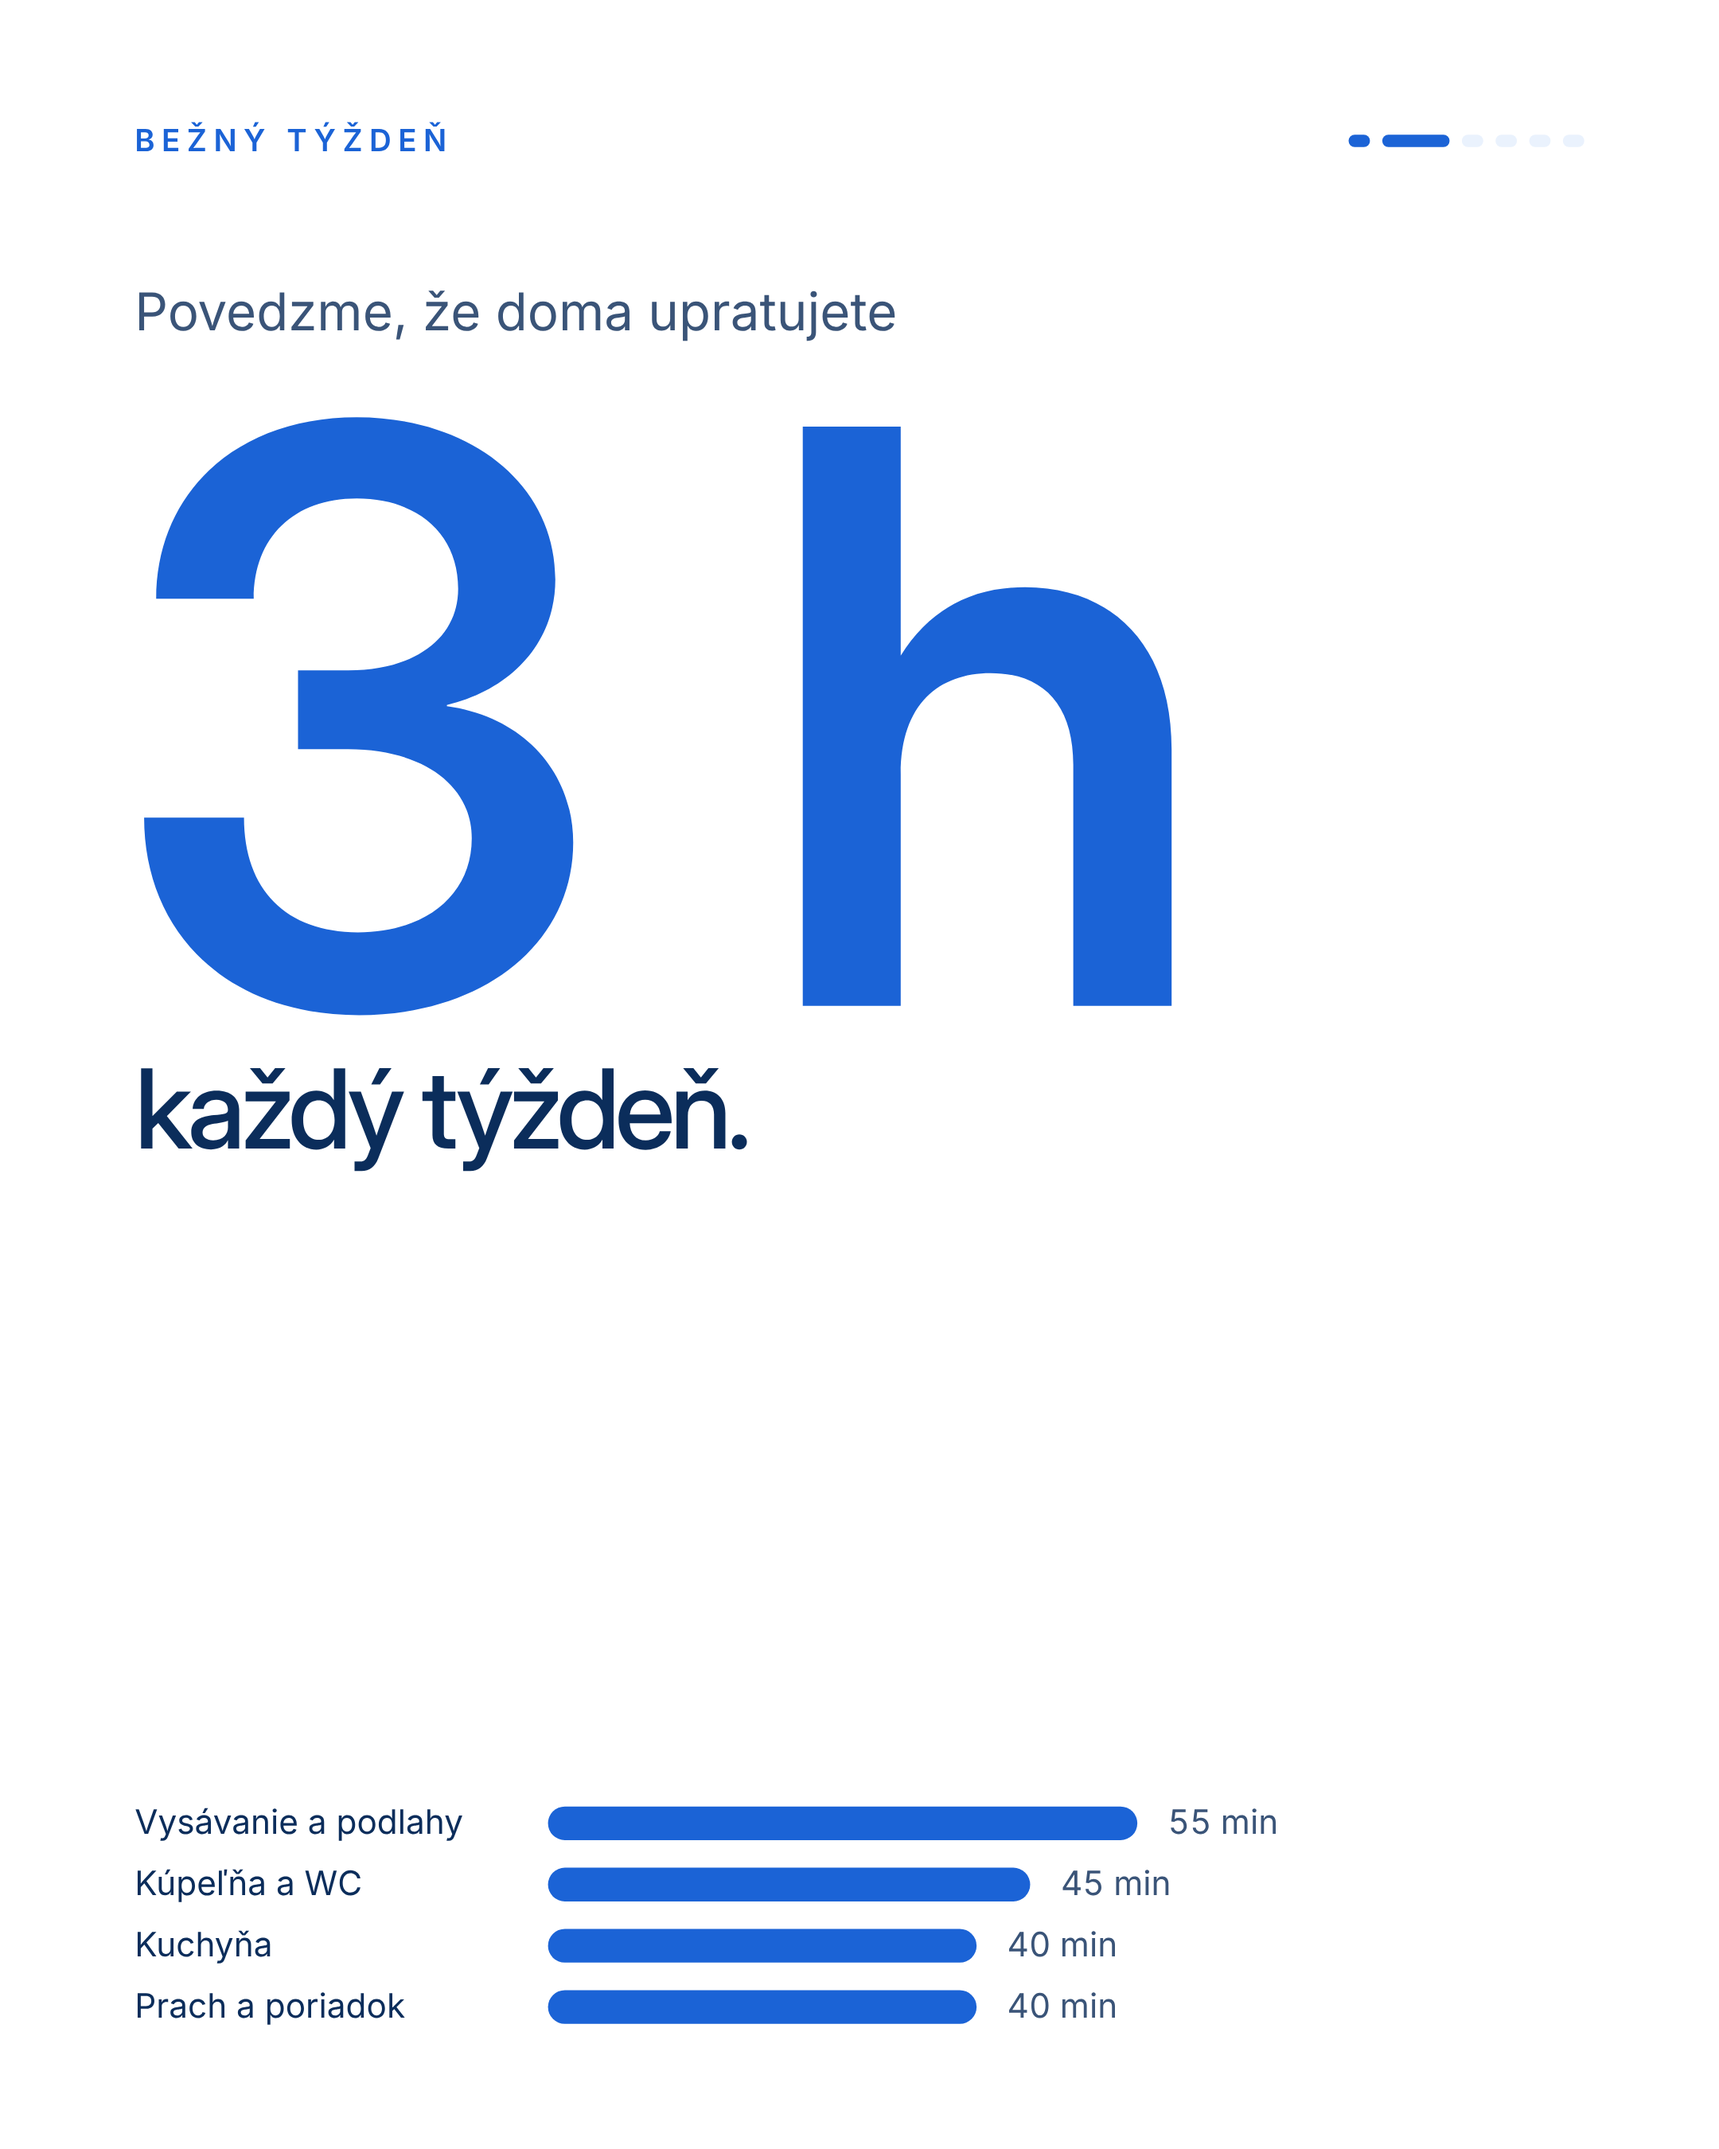
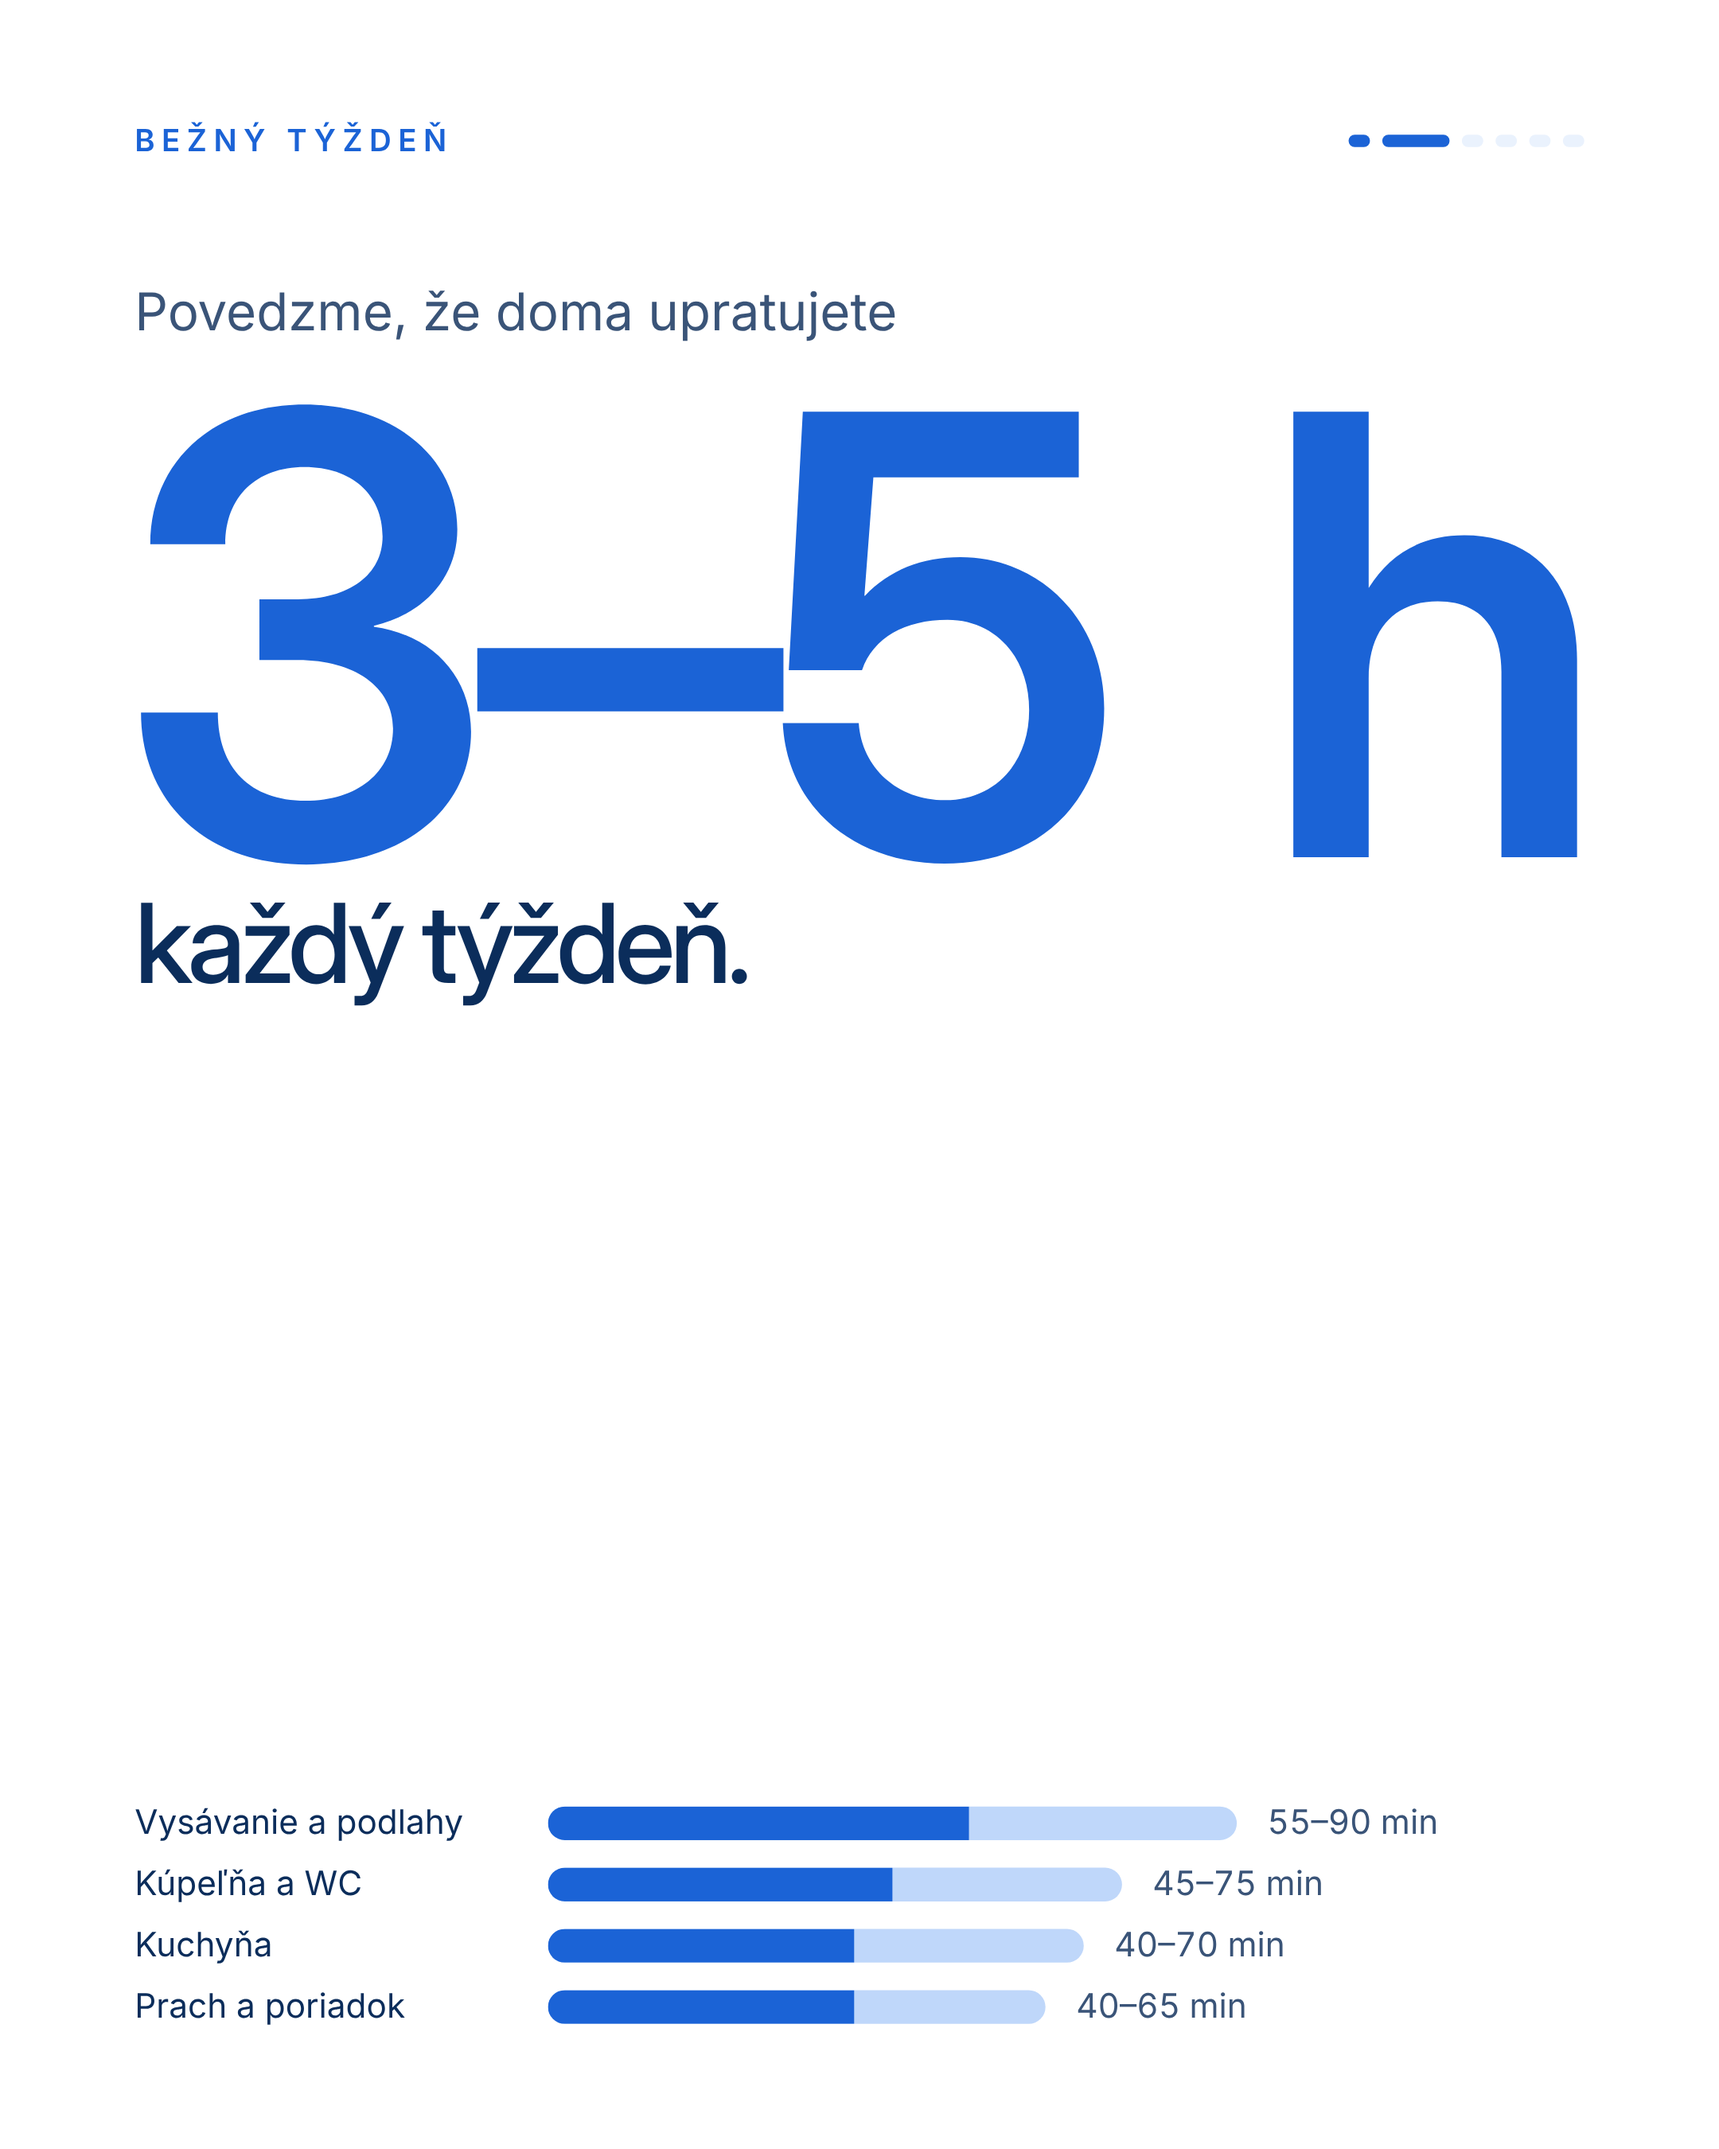
Carousel: count 3 to 5 hours of cleaning a week
Claude-Session: https://claude.ai/code/session_016yT7TguVsCzoGrrk96yPt8

Changed region(s): [[0.062, 0.1867, 0.6824, 0.56], [0.4963, 0.84, 0.8375, 0.9644], [0.7444, 0.1867, 0.9306, 0.4044]]

diff --git a/cisty-domov/forras/social_cas.js b/cisty-domov/forras/social_cas.js
@@ -33,17 +33,17 @@ const slides = [
 `<div class="s" style="background:#fff;color:${C.navy}">
   ${top('Bežný týždeň', 1, C.blue, C.pale)}
   <p style="font-size:34px;color:${C.ink};margin-top:80px">Povedzme, že doma upratujete</p>
-  <div class="d num" style="font-size:520px;font-weight:600;color:${C.blue};margin-top:10px;margin-left:-20px">3 h</div>
+  <div class="d num" style="font-size:400px;font-weight:600;color:${C.blue};margin-top:10px;margin-left:-16px">3–5 h</div>
   <p class="d" style="font-size:72px;font-weight:500;margin-top:-10px">každý týždeň.</p>
   <div style="margin-top:auto;display:flex;flex-direction:column;gap:14px">
-    ${[['Vysávanie a podlahy', 55], ['Kúpeľňa a WC', 45], ['Kuchyňa', 40], ['Prach a poriadok', 40]].map(([t, m]) => `<div style="display:flex;align-items:center;gap:20px;font-size:22px"><span style="width:250px">${t}</span><span style="height:22px;border-radius:11px;background:${C.blue};width:${m * 7}px"></span><span class="num" style="color:${C.ink}">${m} min</span></div>`).join('')}
+    ${[['Vysávanie a podlahy', 55, 90], ['Kúpeľňa a WC', 45, 75], ['Kuchyňa', 40, 70], ['Prach a poriadok', 40, 65]].map(([t, a, z]) => `<div style="display:flex;align-items:center;gap:20px;font-size:22px"><span style="width:250px">${t}</span><span style="display:flex;width:${z * 5}px;height:22px;border-radius:11px;overflow:hidden;background:${C.mist}"><span style="width:${a * 5}px;background:${C.blue}"></span></span><span class="num" style="color:${C.ink}">${a}–${z} min</span></div>`).join('')}
   </div>
 </div>`,
 // 3 156 hours a year, 52-week grid
 `<div class="s" style="background:${C.blue};color:#fff">
   ${top('Za celý rok', 2, '#fff', 'rgba(255,255,255,.3)')}
-  <p style="font-size:34px;color:#D6E6FC;margin-top:80px">3 hodiny × 52 týždňov =</p>
-  <div class="d num" style="font-size:380px;font-weight:600;margin-top:16px;margin-left:-14px">156</div>
+  <p style="font-size:34px;color:#D6E6FC;margin-top:80px">3 až 5 hodín × 52 týždňov =</p>
+  <div class="d num" style="font-size:300px;font-weight:600;margin-top:16px;margin-left:-12px">156–260</div>
   <p class="d" style="font-size:80px;font-weight:400;color:${C.mist};margin-top:-6px">hodín ročne.</p>
   <div style="margin-top:auto;display:grid;grid-template-columns:repeat(13,1fr);gap:10px">
     ${Array.from({ length: 52 }, (_, k) => `<div style="aspect-ratio:1;border-radius:8px;background:#fff;opacity:${.55 + (k % 13) / 13 * .45}"></div>`).join('')}
@@ -53,19 +53,19 @@ const slides = [
 // 4 19.5 working days
 `<div class="s" style="background:${C.pale};color:${C.navy}">
   ${top('To je', 3, C.navy, C.mist)}
-  <div style="display:flex;align-items:flex-end;gap:24px;margin-top:70px"><div class="d num" style="font-size:380px;font-weight:600;color:${C.navy};margin-left:-14px">19,5</div></div>
-  <p class="d" style="font-size:80px;font-weight:400;color:${C.blue};margin-top:44px">pracovného dňa.</p>
-  <p style="font-size:30px;line-height:1.45;color:${C.ink};margin-top:30px;max-width:760px">Takmer celý mesiac v práci. Len bez výplaty a bez dovolenky.</p>
-  <div style="margin-top:auto;display:grid;grid-template-columns:repeat(5,1fr);gap:14px">
+  <div style="display:flex;align-items:flex-end;gap:24px;margin-top:70px"><div class="d num" style="font-size:300px;font-weight:600;color:${C.navy};margin-left:-12px"><span style="font-size:110px;font-weight:500;letter-spacing:-0.02em;margin-right:18px">až</span>32,5</div></div>
+  <p class="d" style="font-size:80px;font-weight:400;color:${C.blue};margin-top:40px">pracovného dňa.</p>
+  <p style="font-size:30px;line-height:1.45;color:${C.ink};margin-top:30px;max-width:760px">Viac ako mesiac v práci. Len bez výplaty a bez dovolenky.</p>
+  <div style="margin-top:auto;display:grid;grid-template-columns:repeat(5,1fr);gap:10px 14px">
     ${['Po', 'Ut', 'St', 'Št', 'Pi'].map(d => `<div style="font-size:18px;font-weight:600;letter-spacing:.14em;color:${C.ink};text-align:center">${d.toUpperCase()}</div>`).join('')}
-    ${Array.from({ length: 20 }, (_, k) => `<div style="height:62px;border-radius:12px;background:${k < 19 ? C.navy : `linear-gradient(90deg,${C.navy} 50%,#fff 50%)`};${k === 19 ? `border:2px solid ${C.navy}` : ''}"></div>`).join('')}
+    ${Array.from({ length: 35 }, (_, k) => `<div style="height:40px;border-radius:10px;background:${k < 19 ? C.navy : k === 19 ? `linear-gradient(90deg,${C.navy} 50%,${C.sky} 50%)` : k < 32 ? C.sky : k === 32 ? `linear-gradient(90deg,${C.sky} 50%,#fff 50%)` : '#fff'}"></div>`).join('')}
   </div>
-  <p style="font-size:20px;color:${C.ink};margin-top:18px">156 hodín ÷ 8 hodín pracovného dňa</p>
+  <p style="font-size:20px;color:${C.ink};margin-top:18px"><span style="display:inline-block;width:14px;height:14px;border-radius:4px;background:${C.navy};margin-right:8px"></span>3 h týždenne = 19,5 dňa &nbsp;&nbsp;<span style="display:inline-block;width:14px;height:14px;border-radius:4px;background:${C.sky};margin-right:8px"></span>5 h týždenne = 32,5 dňa &nbsp;&nbsp;(8-hodinový deň)</p>
 </div>`,
 // 5 what would you do with it
 `<div class="s" style="background:#fff;color:${C.navy}">
   ${top('A teraz si predstavte', 4, C.blue, C.pale)}
-  <h1 class="d" style="font-size:112px;font-weight:600;margin-top:70px">Čo by ste robili<br><span style="color:${C.blue};font-weight:400">s 3 hodinami<br>navyše?</span></h1>
+  <h1 class="d" style="font-size:112px;font-weight:600;margin-top:70px">Čo by ste robili<br><span style="color:${C.blue};font-weight:400">s 3 až 5 hodinami<br>navyše?</span></h1>
   <div style="margin-top:auto;display:flex;flex-direction:column;gap:18px">
     ${[['Výlet s deťmi', 180, C.blue, '#fff'], ['Dva tréningy', 120, C.pale, C.navy], ['Večera s priateľmi', 150, C.navy, '#fff'], ['Konečne dočítať knihu', 90, C.pale, C.navy]].map(([t, m, bg, fg]) => `<div style="display:flex;align-items:center;justify-content:space-between;border-radius:999px;padding:26px 34px;background:${bg};color:${fg};width:${520 + m * 2.4}px;font-size:30px;font-weight:600"><span>${t}</span><span class="num" style="font-weight:500;opacity:.8">${String(m / 60).replace('.', ',')} h</span></div>`).join('')}
   </div>
@@ -75,7 +75,7 @@ const slides = [
   ${top('Čistý domov', 5, '#fff', 'rgba(255,255,255,.3)')}
   <div style="position:absolute;left:88px;right:88px;top:250px;display:grid;grid-template-columns:repeat(13,1fr);gap:10px;opacity:.16">${Array.from({ length: 52 }, () => `<div style="aspect-ratio:1;border-radius:8px;background:#fff"></div>`).join('')}</div>
   <h1 class="d" style="font-size:118px;font-weight:600;margin-top:auto;position:relative">My upratujeme.<br><span style="font-weight:400;color:${C.mist}">Vy máte voľno.</span></h1>
-  <p style="font-size:30px;line-height:1.45;color:#D6E6FC;margin-top:34px;max-width:760px;position:relative">156 hodín ročne späť pre vás. Prídeme s vlastnými pomôckami, pevná cena vopred.</p>
+  <p style="font-size:30px;line-height:1.45;color:#D6E6FC;margin-top:34px;max-width:760px;position:relative">Až 260 hodín ročne späť pre vás. Prídeme s vlastnými pomôckami, pevná cena vopred.</p>
   <div style="display:flex;justify-content:space-between;align-items:flex-end;margin-top:70px;position:relative">
     ${svg('cisty-domov-logo-feher.svg', 260)}
     <div style="display:flex;flex-direction:column;align-items:flex-end;gap:14px"><div style="font-size:30px;font-weight:600">0918 188 252</div><div style="display:inline-flex;align-items:center;gap:14px;background:#fff;color:${C.blue};border-radius:999px;padding:20px 32px;font-size:26px;font-weight:600">Rezervovať termín<svg viewBox="0 0 24 24" width="26" height="26"><path d="M5 12h13M13 6l6 6-6 6" fill="none" stroke="${C.blue}" stroke-width="2.4" stroke-linecap="round" stroke-linejoin="round"/></svg></div><div style="font-size:22px;font-weight:500;color:#D6E6FC">mojcistydomov.sk</div></div>
